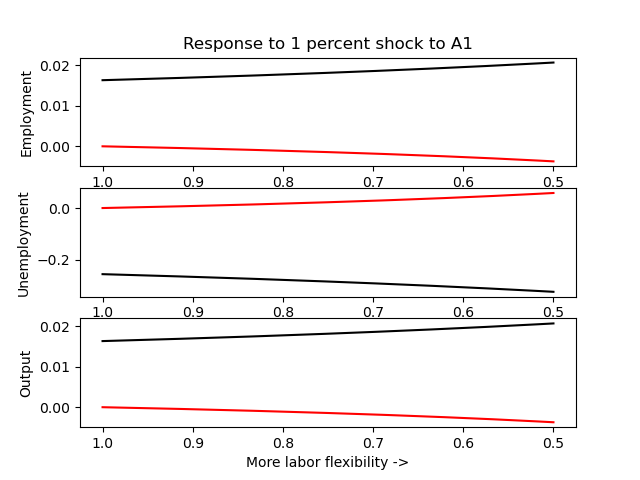
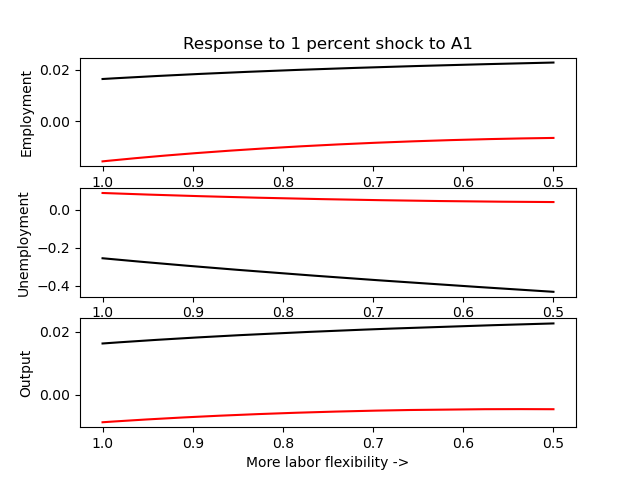
New code updates

diff --git a/code/motivation_figures.py b/code/motivation_figures.py
@@ -4,10 +4,11 @@ import scipy.optimize as opt
 from functions.labor_markets import labor_market, economy
 
 #### baseline employement, unemployment, and output with variable labor market mobility ####
-b = 0
-lamvec     = np.flip(np.linspace(0.5,1,1000)) #labor market openess from less open to less open
+b = 0.8
+lamvec     = np.linspace(0.5,1,1000) #labor market openess from less open to less open
 Lvec       = np.zeros((2,lamvec.shape[0]))
 uratevec   = np.zeros_like(Lvec)
+urateagg   = np.zeros_like(lamvec)
 yvec       = np.zeros_like(Lvec)
 for i in range(lamvec.shape[0]):
     m1 = labor_market(lambdai=lamvec[i], lambdaj=lamvec[i], betai=0)
@@ -15,8 +16,10 @@ for i in range(lamvec.shape[0]):
     eq = economy(m1,m2)
     eq.solve_equilibrium()
     Lvec[0,i], Lvec[1,i] = eq.market1.Ld, eq.market2.Ld
-    uratevec[0,i], uratevec[1,i] = eq.market1.urate, eq.market2.urate 
+    uratevec[0,i], uratevec[1,i] = eq.market1.urate, eq.market2.urate
+    urateagg[i] = (2 -  eq.market1.Ld- eq.market2.Ld)/2
     yvec[0,i], yvec[1,i] = eq.market1.yi, eq.market2.yi
+
 
 fig_baseline, (plot1, plot2, plot3) = plt.subplots(3, 1)
 plot1.plot(lamvec,Lvec[0,:],'-k')
@@ -36,10 +39,26 @@ plot3.set_xlabel('More labor flexibility ->')
 plot3.invert_xaxis()
 plt.savefig('output/baseline.png')
 
+fig_unemployment_baseline, (plot1, plot2, plot3) = plt.subplots(3, 1)
+plot1.plot(lamvec,uratevec[0,:],'-k')
+plot1.set_ylabel('Employment')
+plot1.invert_xaxis()
+
+plot2.plot(lamvec,uratevec[1,:],'-r')
+plot2.set_ylabel('Unemployment')
+plot2.invert_xaxis()
+
+plot3.plot(lamvec,urateagg[:],'-k')
+plot3.set_ylabel('Output')
+plot3.set_xlabel('More labor flexibility ->')
+plot3.invert_xaxis()
+plt.savefig('output/unemployment_baseline.png')
+
 # responses of equilibrium outcomes to positive 5% shock to productivity in upstream sector at varying levels of labor market mobility
 shock = 1.01
 Lvec_s1       = np.zeros((2,lamvec.shape[0]))
 uratevec_s1   = np.zeros_like(Lvec)
+urateagg_s1   = np.zeros_like(lamvec)
 yvec_s1       = np.zeros_like(Lvec)
 for i in range(lamvec.shape[0]):
     m1 = labor_market(lambdai=lamvec[i], lambdaj=lamvec[i], betai=0, Ai=shock)
@@ -47,7 +66,8 @@ for i in range(lamvec.shape[0]):
     eq = economy(m1,m2)
     eq.solve_equilibrium()
     Lvec_s1[0,i], Lvec_s1[1,i] = eq.market1.Ld, eq.market2.Ld
-    uratevec_s1[0,i], uratevec_s1[1,i] = eq.market1.urate, eq.market2.urate 
+    uratevec_s1[0,i], uratevec_s1[1,i] = eq.market1.urate, eq.market2.urate
+    urateagg_s1 =  (eq.market1.urate + eq.market2.urate)/2
     yvec_s1[0,i], yvec_s1[1,i] = eq.market1.yi, eq.market2.yi
 
 fig_s1, (plot1, plot2, plot3) = plt.subplots(3, 1)
@@ -69,9 +89,10 @@ plot3.invert_xaxis()
 plt.savefig('output/baseline_A1.png')
 
 #side of shock to other parts
-Lshock1 = (Lvec_s1-Lvec)/Lvec
-ushock1 = (uratevec_s1-uratevec)/uratevec
-yshoc1 = (yvec_s1-yvec)/yvec
+Lshock1    = (Lvec_s1-Lvec)/Lvec
+ushock1    = (uratevec_s1-uratevec)/uratevec
+yshoc1     = (yvec_s1-yvec)/yvec
+uaggshock1 = (urateagg_s1-urateagg)/urateagg
 
 fig_shock1, (plot1, plot2, plot3) = plt.subplots(3, 1)
 plot1.plot(lamvec,Lshock1[0,:],'-k')
@@ -92,10 +113,27 @@ plot3.set_xlabel('More labor flexibility ->')
 plot3.invert_xaxis()
 plt.savefig('output/shock_A1.png')
 
+fig_unemployment_shock1, (plot1, plot2, plot3) = plt.subplots(3, 1)
+plot1.plot(lamvec,ushock1[0,:],'-k')
+plot1.set_ylabel('Sector 1')
+plot1.invert_xaxis()
+plot1.set_title("Response of unemployment to shock in sector 1")
+
+plot2.plot(lamvec,ushock1[1,:],'-k')
+plot2.set_ylabel('Sector 2')
+plot2.invert_xaxis()
+
+plot3.plot(lamvec,uaggshock1[:],'-k')
+plot3.set_ylabel('Aggregate')
+plot3.set_xlabel('More production linkages ->')
+plot3.invert_xaxis()
+plt.savefig('output/unemployment_shock1.png')
+
 # responses of equilibrium outcomes to positive 5% shock to productivity in downstream sector at varying levels of labor market mobility
 shock = 1.01
 Lvec_s2       = np.zeros((2,lamvec.shape[0]))
 uratevec_s2   = np.zeros_like(Lvec)
+urateagg_s2   = np.zeros_like(lamvec)
 yvec_s2       = np.zeros_like(Lvec)
 for i in range(lamvec.shape[0]):
     m1 = labor_market(lambdai=lamvec[i], lambdaj=lamvec[i], betai=0)
@@ -103,7 +141,8 @@ for i in range(lamvec.shape[0]):
     eq = economy(m1,m2)
     eq.solve_equilibrium()
     Lvec_s2[0,i], Lvec_s2[1,i] = eq.market1.Ld, eq.market2.Ld
-    uratevec_s2[0,i], uratevec_s2[1,i] = eq.market1.urate, eq.market2.urate 
+    uratevec_s2[0,i], uratevec_s2[1,i] = eq.market1.urate, eq.market2.urate
+    urateagg_s2 = (eq.market1.urate + eq.market2.urate)/2
     yvec_s2[0,i], yvec_s2[1,i] = eq.market1.yi, eq.market2.yi
 
 fig_s1, (plot1, plot2, plot3) = plt.subplots(3, 1)
@@ -128,6 +167,8 @@ plt.savefig('output/baseline_A2.png')
 Lshock2 = (Lvec_s2-Lvec)/Lvec
 ushock2 = (uratevec_s2-uratevec)/uratevec
 yshoc2 = (yvec_s2-yvec)/yvec
+uaggshock2 = (urateagg_s2-urateagg)/urateagg
+
 
 fig_shock2, (plot1, plot2, plot3) = plt.subplots(3, 1)
 plot1.plot(lamvec,Lshock2[0,:],'-k')
@@ -148,12 +189,29 @@ plot3.set_xlabel('More labor flexibility ->')
 plot3.invert_xaxis()
 plt.savefig('output/shock_A2.png')
 
+fig_unemployment_shock2, (plot1, plot2, plot3) = plt.subplots(3, 1)
+plot1.plot(lamvec,ushock2[0,:],'-k')
+plot1.set_ylabel('Sector 1')
+plot1.invert_xaxis()
+plot1.set_title("Response of unemployment to shock in sector 2")
+
+plot2.plot(lamvec,ushock2[1,:],'-k')
+plot2.set_ylabel('Sector 2')
+plot2.invert_xaxis()
+
+plot3.plot(lamvec,uaggshock2[:],'-k')
+plot3.set_ylabel('Aggregate')
+plot3.set_xlabel('More production linkages ->')
+plot3.invert_xaxis()
+plt.savefig('output/unemployment_shock2.png')
+
 #what if we do the same thing but for a variation in beta given the same labor market tightness. 
 bvec  = np.linspace(0,1,1000)
 lam   = 0.5
 shock = 1.01 
 Lvec_b       = np.zeros((2,bvec.shape[0]))
 uratevec_b   = np.zeros_like(Lvec)
+urateagg_b   = np.zeros_like(lamvec)
 yvec_b       = np.zeros_like(Lvec)
 for i in range(lamvec.shape[0]):
     m1 = labor_market(lambdai=lam, lambdaj=lam, betai=0)
@@ -161,8 +219,83 @@ for i in range(lamvec.shape[0]):
     eq = economy(m1,m2)
     eq.solve_equilibrium()
     Lvec_b[0,i], Lvec_b[1,i] = eq.market1.Ld, eq.market2.Ld
-    uratevec_b[0,i], uratevec_b[1,i] = eq.market1.urate, eq.market2.urate 
+    uratevec_b[0,i], uratevec_b[1,i] = eq.market1.urate, eq.market2.urate
+    urateagg_b = (2 -  eq.market1.Ld- eq.market2.Ld)/2
     yvec_b[0,i], yvec_b[1,i] = eq.market1.yi, eq.market2.yi
 
+
+Lvec_bs       = np.zeros((2,bvec.shape[0]))
+uratevec_bs   = np.zeros_like(Lvec)
+urateagg_bs   = np.zeros_like(lamvec)
+yvec_bs       = np.zeros_like(Lvec)
+for i in range(lamvec.shape[0]):
+    m1 = labor_market(lambdai=lam, lambdaj=lam, betai=0,Ai=shock)
+    m2 = labor_market(lambdai=lam, lambdaj=lam, betai=bvec[i])
+    eq = economy(m1,m2)
+    eq.solve_equilibrium()
+    Lvec_bs[0,i], Lvec_bs[1,i] = eq.market1.Ld, eq.market2.Ld
+    uratevec_bs[0,i], uratevec_bs[1,i] = eq.market1.urate, eq.market2.urate
+    urateagg_bs[i] =  (eq.market1.urate + eq.market2.urate)/2
+    yvec_bs[0,i], yvec_bs[1,i] = eq.market1.yi, eq.market2.yi
+
+fig_s1, (plot1, plot2, plot3) = plt.subplots(3, 1)
+plot1.plot(lamvec,Lvec_b[0,:],'-k')
+plot1.plot(lamvec,Lvec_b[1,:],'-r')
+plot1.set_ylabel('Employment')
+plot1.invert_xaxis()
+
+plot2.plot(lamvec,uratevec_b[0,:],'-k')
+plot2.plot(lamvec,uratevec_b[1,:],'-r')
+plot2.set_ylabel('Unemployment')
+plot2.invert_xaxis()
+
+plot3.plot(lamvec,yvec_b[0,:],'-k')
+plot3.plot(lamvec,yvec_b[1,:],'-r')
+plot3.set_ylabel('Output')
+plot3.set_xlabel('More labor flexibility ->')
+plot3.invert_xaxis()
+plt.savefig('output/baseline_b.png')
+
+#side of shock to other parts
+Lshockb = (Lvec_bs-Lvec_b)/Lvec_b
+ushockb = (uratevec_bs-uratevec_b)/uratevec_b
+yshocb = (yvec_bs-yvec_b)/yvec_b
+uaggshockb = (urateagg_bs-urateagg_b)/urateagg_b
+
+
+fig_shockb, (plot1, plot2, plot3) = plt.subplots(3, 1)
+plot1.plot(lamvec,Lshockb[0,:],'-k')
+plot1.plot(lamvec,Lshockb[1,:],'-r')
+plot1.set_ylabel('Employment')
+plot1.set_title('Response to 1 percent shock to A1')
+plot1.invert_xaxis()
+
+plot2.plot(lamvec,ushockb[0,:],'-k')
+plot2.plot(lamvec,ushockb[1,:],'-r')
+plot2.set_ylabel('Unemployment')
+plot2.invert_xaxis()
+
+plot3.plot(lamvec,yshocb[0,:],'-k')
+plot3.plot(lamvec,yshocb[1,:],'-r')
+plot3.set_ylabel('Output')
+plot3.set_xlabel('More labor flexibility ->')
+plot3.invert_xaxis()
+plt.savefig('output/shock_b.png')
+
+fig_unemployment_shockb, (plot1, plot2, plot3) = plt.subplots(3, 1)
+plot1.plot(lamvec,ushockb[0,:],'-k')
+plot1.set_ylabel('Sector 1')
+plot1.invert_xaxis()
+plot1.set_title("Response of unemployment to shock in sector 1")
+
+plot2.plot(lamvec,ushockb[1,:],'-k')
+plot2.set_ylabel('Sector 2')
+plot2.invert_xaxis()
+
+plot3.plot(lamvec,uaggshockb[:],'-k')
+plot3.set_ylabel('Aggregate')
+plot3.set_xlabel('More production linkages ->')
+plot3.invert_xaxis()
+plt.savefig('output/unemployment_shockb.png')
 
 print('done')
